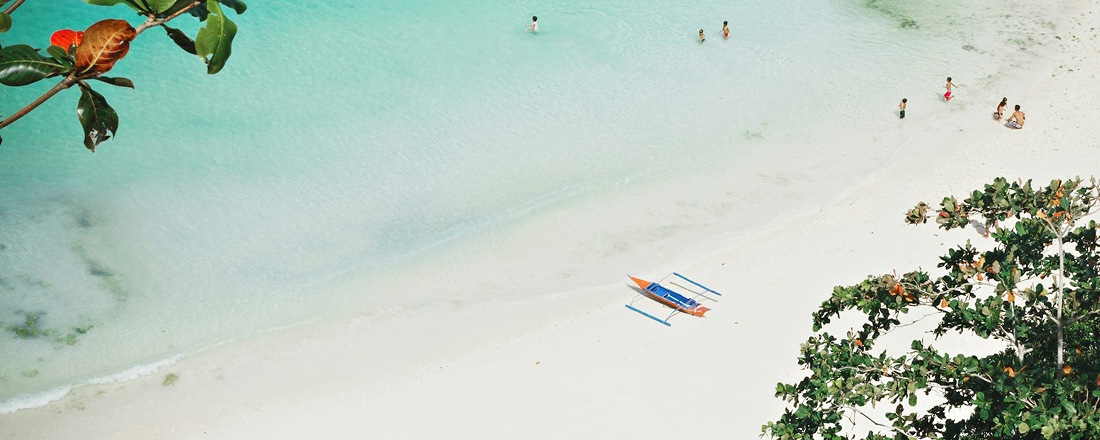
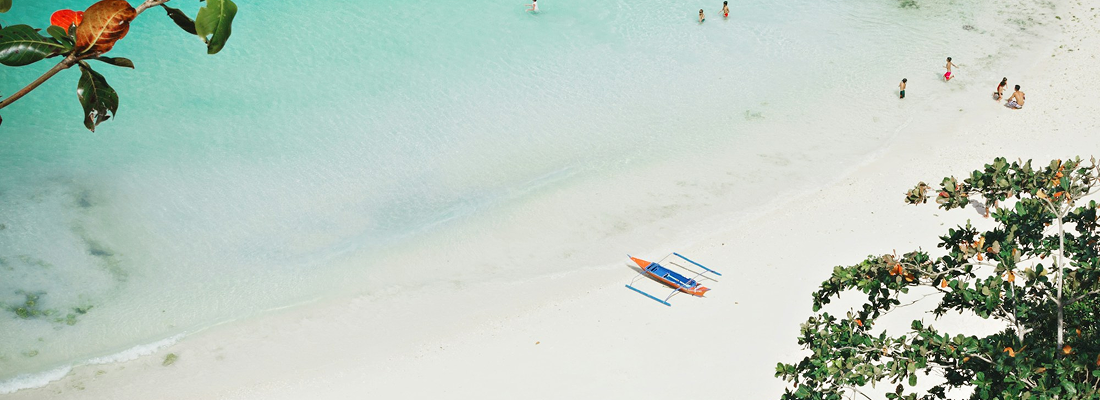
[style] 메인비주얼_수정

diff --git a/src/components/features/main/MainVisual.tsx b/src/components/features/main/MainVisual.tsx
@@ -3,7 +3,6 @@ import mainvisual2 from "../../../assets/images/mainvisual2.png";
 import mainvisual3 from "../../../assets/images/mainvisual3.png";
 import mainvisual4 from "../../../assets/images/mainvisual4.png";
 import mainvisual5 from "../../../assets/images/mainvisual5.png";
-import spriteImage from "../../../assets/images/spriteImages.png";
 
 import { Swiper, SwiperSlide } from "swiper/react";
 import { Autoplay, Pagination, Navigation } from "swiper/modules";
@@ -12,7 +11,10 @@ import type { Swiper as SwiperClass } from "swiper";
 import "swiper/css";
 import "swiper/css/pagination";
 import "swiper/css/navigation";
-import { useCallback, useEffect, useRef, useState } from "react";
+import "../../../css/index.css";
+
+import { useRef, useState } from "react";
+import Icon from "../../commons/Icon";
 
 const slides = [
 	{
@@ -47,233 +49,92 @@ const slides = [
 ];
 
 export default function MainVisual() {
-	const swiperRef = useRef<{ swiper: SwiperClass } | null>(null);
+	const swiperRef = useRef<SwiperClass | null>(null);
+	const [autoplaying, setAutoplaying] = useState(true);
 
-	// 슬라이드 자동 전환과 애니메이션 제어를 위한 ref
-	const timeoutRef = useRef<ReturnType<typeof setTimeout> | null>(null);
-	const animationFrameRef = useRef<number | null>(null);
-	const initialElapsedRef = useRef(0);
-	const isResumingRef = useRef(false);
-
-	// 리사이즈 ref
-	const containerRef = useRef<HTMLDivElement>(null);
-
-	// 상태 관리
-	const [autoplaying, setAutoPlaying] = useState(true); //자동 재생 여부
-	const [activeIndex, setActiveIndex] = useState(0); //현재 슬라이드 인덱스
-	const [fillPercent, setFillPercent] = useState(0); // 진행률0~100
-	const [startTime, setStartTime] = useState<number | null>(null); //애니메이션 시작 시간
-
-	// 슬라이드 하나당 재생 시간 5초
-	const DURATION = 5000;
-
-	// 다음 슬라이드로 전환하는 함수
-	const goToNextSlide = useCallback(() => {
-		swiperRef.current?.swiper.slideNext();
-	}, []);
-
-	// 일정 시간 후 슬라이드 전환을 위한 타이머 설정
-	const startSlideTimer = useCallback(
-		(delay: number) => {
-			timeoutRef.current = setTimeout(goToNextSlide, delay);
-		},
-		[goToNextSlide]
-	);
-
-	// 프로그래스바 애니메이션 처리
-	const animateProgress = useCallback((start: number, elapsedStart: number) => {
-		const update = (now: number) => {
-			const elapsed = now - start + elapsedStart;
-			const percent = Math.min(100, (elapsed / DURATION) * 100);
-
-			setFillPercent(percent);
-			if (percent < 100) {
-				animationFrameRef.current = requestAnimationFrame(update);
-			}
-		};
-		animationFrameRef.current = requestAnimationFrame(update);
-	}, []);
-
-	// 일시 정지 처리
-	const stopAutoplay = useCallback(() => {
-		if (timeoutRef.current) clearTimeout(timeoutRef.current);
-		if (animationFrameRef.current)
-			cancelAnimationFrame(animationFrameRef.current);
-
-		if (startTime !== null) {
-			const now = performance.now();
-			let elapsed = now - startTime;
-
-			// 경과 시간이 음수로 나오는 경우를 방지
-			if (elapsed < 0) elapsed = 0;
-
-			// 첫 번째 정지 후, 두 번째 정지 시점에서 누적된 경과 시간을 계산
-			if (initialElapsedRef.current === 0) {
-				initialElapsedRef.current = elapsed; // 첫 번째 정지 시점에서만 초기화
-			} else {
-				// 두 번째 정지 이후에는 첫 번째 정지 이후의 시간만 반영
-				initialElapsedRef.current += elapsed;
-			}
-		}
-
-		// startTime을 null로 설정하지 않고, 다음 재생 시점에서 사용할 시간을 그대로 유지합니다.
-		setStartTime(performance.now());
-	}, [startTime]);
-
-	// 재생 재개 처리
-	const resumeAutoplay = useCallback(() => {
-		const now = performance.now();
-		// 첫 번째 정지에서 저장된 경과 시간만큼 계산된 남은 시간
-		const remaining = Math.max(0, DURATION - initialElapsedRef.current);
-
-		setStartTime(now); // 재생 시작 시간을 새로 설정
-		isResumingRef.current = true;
-		animateProgress(now, initialElapsedRef.current); // 초기화 시 누적 경과 시간을 그대로 사용
-		startSlideTimer(remaining); // 남은 시간만큼 타이머 설정
-	}, [animateProgress, startSlideTimer]);
-
-	// 토글 핸들러
-	const toggleAutoPlay = useCallback(() => {
+	const toggleAutoplay = () => {
+		if (!swiperRef.current) return;
 		if (autoplaying) {
-			stopAutoplay();
+			swiperRef.current.autoplay.stop();
 		} else {
-			resumeAutoplay();
+			swiperRef.current.autoplay.start();
 		}
-		setAutoPlaying((prev) => !prev);
-	}, [autoplaying, stopAutoplay, resumeAutoplay]);
+		setAutoplaying(!autoplaying);
+	};
 
-	// 슬라이드 변경되었을 때 초기화
-	useEffect(() => {
-		if (!autoplaying) return;
-		if (isResumingRef.current) {
-			isResumingRef.current = false;
-			return;
+	const handleMouseEnter = () => {
+		if (swiperRef.current?.autoplay.running) {
+			swiperRef.current.autoplay.stop();
 		}
-		if (timeoutRef.current) clearTimeout(timeoutRef.current);
-		if (animationFrameRef.current)
-			cancelAnimationFrame(animationFrameRef.current);
+	};
 
-		setFillPercent(0);
-		initialElapsedRef.current = 0;
-
-		const now = performance.now();
-		setStartTime(now);
-		animateProgress(now, 0);
-
-		// autoplaying이 true일 때만 실행되게 하면서
-		// resumeAutoplay와 중복 호출되지 않도록 startSlideTimer 호출 제거
-		if (initialElapsedRef.current === 0) {
-			startSlideTimer(DURATION);
+	const handelMouseLeave = () => {
+		if (!swiperRef.current?.autoplay.running && autoplaying) {
+			swiperRef.current?.autoplay.start();
 		}
-	}, [activeIndex, autoplaying, animateProgress, startSlideTimer]);
-
-	// 리사이즈
-	useEffect(() => {
-		if (!containerRef.current) return;
-
-		let resizeTimeout: ReturnType<typeof setTimeout>;
-
-		const observer = new ResizeObserver(() => {
-			if (resizeTimeout) clearTimeout(resizeTimeout);
-
-			resizeTimeout = setTimeout(() => {
-				swiperRef.current?.swiper.update();
-			}, 300);
-		});
-
-		observer.observe(containerRef.current);
-
-		return () => {
-			if (resizeTimeout) clearTimeout(resizeTimeout);
-			observer.disconnect();
-		};
-	}, []);
+	};
 
 	return (
-		<div className="w-[calc(100vw-308px)] min-w-[1100px] px-[20px] overflow-hidden relative">
-			<div
-				ref={containerRef}
-				className="aspect-[2.5/1] w-full rounded-[10px] overflow-hidden transition-all duration-300"
+		<div
+			className="w-[1100px] relative group"
+			onMouseEnter={handleMouseEnter}
+			onMouseLeave={handelMouseLeave}
+		>
+			<Swiper
+				modules={[Autoplay, Navigation, Pagination]}
+				spaceBetween={0}
+				slidesPerView={1}
+				loop={true}
+				onSwiper={(swiper) => (swiperRef.current = swiper)}
+				autoplay={{ delay: 5000, disableOnInteraction: false }}
+				navigation={{
+					nextEl: ".swiper-button-next",
+					prevEl: ".swiper-button-prev"
+				}}
+				pagination={{
+					el: ".custom-pagination",
+					clickable: true,
+					bulletClass: "custom-bullet",
+					bulletActiveClass: "custom-bullet-active"
+				}}
+				className="rounded-[10px]"
 			>
-				<Swiper
-					onSwiper={(swiper) => {
-						swiperRef.current = { swiper };
-					}}
-					ref={swiperRef}
-					modules={[Autoplay, Pagination, Navigation]}
-					autoplay={false}
-					loop
-					onSlideChange={(swiper) => setActiveIndex(swiper.realIndex)}
-					className="w-full h-full rounded-[10px]"
-				>
-					{slides.map((slide, idx) => (
-						<SwiperSlide key={idx}>
-							<div className="relative w-full h-full">
-								<img
-									src={slide.image}
-									alt={slide.alt}
-									className="w-full h-full object-cover object-center"
-								/>
-								<div className="absolute bottom-[78px] left-[40px] text-white z-10">
-									<h2 className="text-[40px] font-bold">{slide.description}</h2>
-									<p className="text-[28px] font-bold">{slide.title}</p>
-								</div>
+				{slides.map((slide, i) => (
+					<SwiperSlide key={i}>
+						<div className="relative w-full h-[400px]">
+							<img
+								src={slide.image}
+								alt={slide.alt}
+								className="w-full h-full object-cover"
+							/>
+							<div className="absolute bottom-10 left-10 text-white">
+								<h2 className="text-[40px] font-bold">{slide.description}</h2>
+								<p className="text-[28px] font-bold">{slide.title}</p>
 							</div>
-						</SwiperSlide>
-					))}
-				</Swiper>
-				{/* 컨트롤러 */}
-				<div className="absolute bottom-[24px] left-[60px] right-[100px] flex items-center gap-2 text-white text-sm z-10">
-					<button
-						className="custom-prev-button w-6 h-6 cursor-pointer"
-						style={{
-							backgroundImage: `url(${spriteImage})`,
-							backgroundPosition: "-27px -24px",
-							backgroundSize: "367.5px 570px",
-							backgroundRepeat: "no-repeat"
-						}}
-						aria-label="Previous Slide"
-						onClick={() => swiperRef.current?.swiper.slidePrev()}
-					>
-						{/* 이전버튼 */}
-					</button>
-					<span className="w-[50px] text-center">
-						{`0${activeIndex + 1}`}{" "}
-						<span className="text-white/60"> / 0{slides.length}</span>
-					</span>
-					<button
-						onClick={() => swiperRef.current?.swiper.slideNext()}
-						className="custom-next-button w-6 h-6 cursor-pointer"
-						aria-label="Next Slide"
-						style={{
-							backgroundImage: `url(${spriteImage})`,
-							backgroundPosition: "-61px -24px",
-							backgroundSize: "367.5px 570px",
-							backgroundRepeat: "no-repeat"
-						}}
-					>
-						{/* 다음버튼 */}
-					</button>
-					{/* 정지/재생 */}
-					<button
-						onClick={toggleAutoPlay}
-						className="w-[32px] h-[32px] transform scale-80 cursor-pointer"
-						style={{
-							backgroundImage: `url(${spriteImage})`,
-							backgroundSize: "367.5px 570px",
-							backgroundRepeat: "no-repeat",
-							backgroundPosition: autoplaying ? "-91px -20px" : "-127px -20px"
-						}}
-						aria-label={autoplaying ? "정지" : "재생"}
-					></button>
-					{/* 프로그래스바 */}
-					<div className="flex-1 h-[4px] bg-white/40 ml-4 relative overflow-hidden">
-						<div
-							className="h-[2px] bg-white/80 transition-none absolute top-1/2 -translate-y-1/2"
-							style={{ width: `${fillPercent}% ` }}
-						/>
-					</div>
+						</div>
+					</SwiperSlide>
+				))}
+
+				{/* swiper navi */}
+				<div className="swiper-button-prev opacity-0 group-hover:opacity-100 transition-opacity">
+					<Icon position="47.465% 49.39%" size="95px" />
 				</div>
+				<div className="swiper-button-next opacity-0 group-hover:opacity-100 transition-opacity">
+					<Icon position="89.401% 49.39%" size="95px" />
+				</div>
+			</Swiper>
+			{/* pagination + autoplay control */}
+			<div className="flex justify-center items-center gap-[4px] mt-[8px] h-[24px]">
+				<div className="custom-pagination w-[124px] mr-[5px]" />
+				<button
+					onClick={toggleAutoplay}
+					className="w-[23px] h-[23px] bg-[#cdcdcd] rounded-full flex items-center justify-center hover:bg-[#06B796] transition-colors duration-300"
+				>
+					<Icon
+						position={autoplaying ? "-9.5px -14px" : "-30px -14px"}
+						size="20px"
+					/>
+				</button>
 			</div>
 		</div>
 	);

diff --git a/src/css/index.css b/src/css/index.css
@@ -53,3 +53,15 @@ body {
 .ql-editor.ql-blank::before {
 	@apply text-[#CDCDCD] not-italic;
 }
+
+/* swiper pagination */
+/* .custom-pagination {
+	@apply flex justify-center items-center h-[24px] mt-[12px];
+} */
+.custom-bullet {
+	@apply inline-block w-[12px] h-[12px] bg-[#CDCDCD] rounded-full mx-[4px] opacity-100 transition-colors duration-300 cursor-pointer;
+}
+
+.custom-bullet-active {
+	@apply w-[36px] bg-[#06B796];
+}

diff --git a/src/css/tailwind.css b/src/css/tailwind.css
@@ -37,4 +37,10 @@
 		border: 2px solid transparent;
 		background-color: #f3f4f6;
 	}
+
+	/* swiper navi */
+	.swiper-button-prev::after,
+	.swiper-button-next::after {
+		display: none;
+	}
 }
